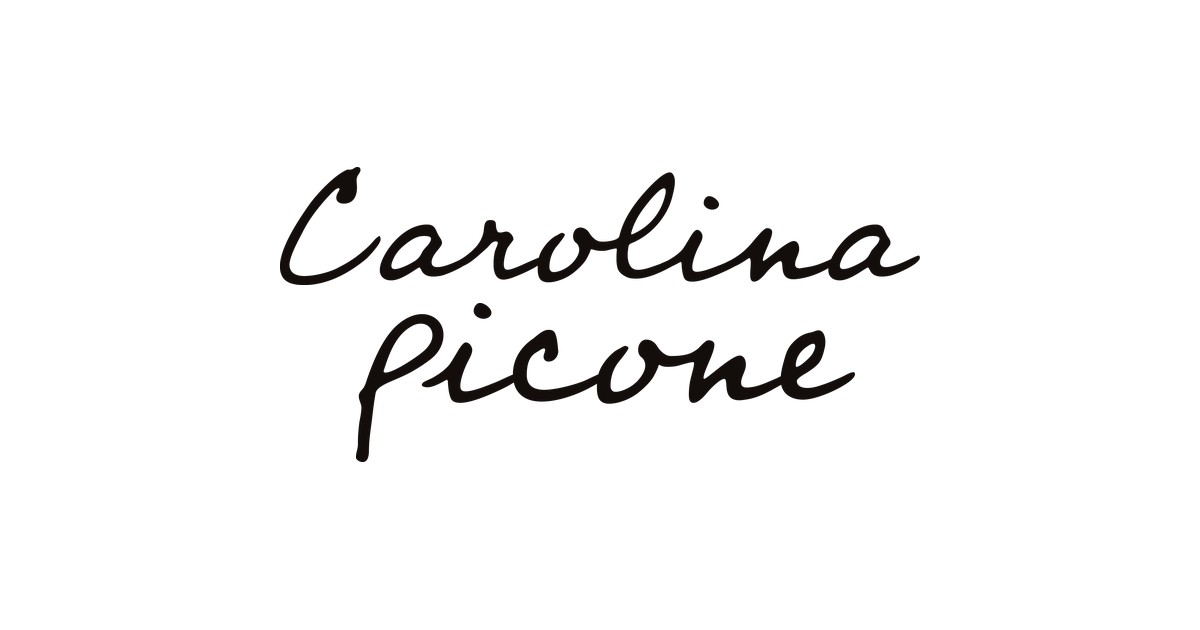
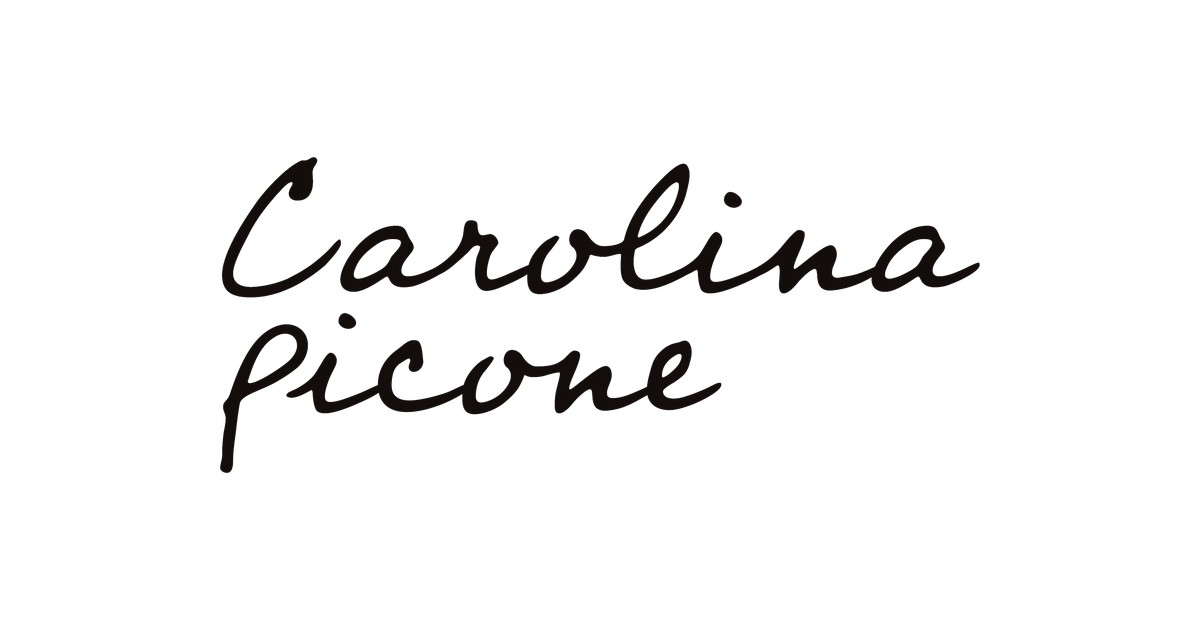
Vista previa del link: título 'Carolina Picone — Diseñadora de Indumentaria' y firma con las proporciones del home (Carolina y Picone del mismo tamaño)
Claude-Session: https://claude.ai/code/session_01VVY2Xm9Z2yGy11hWit3G9P

Changed region(s): [[0.185, 0.2413, 0.8325, 0.754]]

diff --git a/index.html b/index.html
@@ -4,20 +4,20 @@
 <meta charset="UTF-8">
 <meta name="viewport" content="width=device-width, initial-scale=1.0">
 <title>Carolina Picone — Portfolio</title>
-<meta name="description" content="Carolina Picone — Diseñadora de Indumentaria">
+<meta name="description" content="Portfolio de diseño de indumentaria">
 <!-- vista previa al compartir el link (LinkedIn, WhatsApp, Instagram, etc.) -->
 <meta property="og:type" content="website">
 <meta property="og:site_name" content="Carolina Picone">
-<meta property="og:title" content="Carolina Picone">
-<meta property="og:description" content="Diseñadora de Indumentaria">
+<meta property="og:title" content="Carolina Picone — Diseñadora de Indumentaria">
+<meta property="og:description" content="Portfolio de diseño de indumentaria">
 <meta property="og:url" content="https://carolinapicone.com/">
 <meta property="og:image" content="https://carolinapicone.com/assets/og-preview.jpg">
 <meta property="og:image:width" content="1200">
 <meta property="og:image:height" content="630">
 <meta property="og:image:alt" content="Carolina Picone">
 <meta name="twitter:card" content="summary_large_image">
-<meta name="twitter:title" content="Carolina Picone">
-<meta name="twitter:description" content="Diseñadora de Indumentaria">
+<meta name="twitter:title" content="Carolina Picone — Diseñadora de Indumentaria">
+<meta name="twitter:description" content="Portfolio de diseño de indumentaria">
 <meta name="twitter:image" content="https://carolinapicone.com/assets/og-preview.jpg">
 <link rel="preconnect" href="https://fonts.googleapis.com">
 <link rel="preconnect" href="https://fonts.gstatic.com" crossorigin>

diff --git a/CLAUDE.md b/CLAUDE.md
@@ -344,7 +344,7 @@ Todo vive en un **único `index.html`**, sin páginas separadas ni rutas — la 
 - **Sin teléfono ni WhatsApp visibles** en Contacto — decisión de privacidad explícita de Carolina.
 - **Dominio:** `carolinapicone.com`, **comprado por Carolina en Namecheap**. La web se publica con **GitHub Pages** desde `main` (carpeta raíz). El archivo `CNAME` de la raíz del repositorio (con `carolinapicone.com` adentro) le dice a GitHub cuál es el dominio: **no borrarlo**. En Namecheap (Advanced DNS) van 4 registros A `@` → 185.199.108.153 / 109.153 / 110.153 / 111.153 y un CNAME `www` → `carolinapicone.github.io`. Después, en GitHub → Settings → Pages, tildar **Enforce HTTPS**.
 - **Redes confirmadas:** Instagram (de diseño) `@carolinapicone_` → `instagram.com/carolinapicone_` (antes `@caropicone`, que ya no se usa en la web); LinkedIn → `linkedin.com/in/carolina-picone-680a20331`.
-- **Vista previa al compartir el link** (LinkedIn, WhatsApp, etc.): etiquetas `og:*` / `twitter:*` en el `<head>` del `index.html`. Título **"Carolina Picone"**, descripción "Diseñadora de Indumentaria" e imagen `assets/og-preview.jpg` (1200×630, fondo blanco con la firma de dos líneas; las imágenes tienen que ir con la dirección completa `https://carolinapicone.com/assets/...`). Antes no había ninguna y LinkedIn elegía sola una foto de un figurín de Dualidad. LinkedIn guarda la vista previa un tiempo: para refrescarla, usar linkedin.com/post-inspector. **No borrar `og-preview.jpg`.**
+- **Vista previa al compartir el link** (LinkedIn, WhatsApp, etc.): etiquetas `og:*` / `twitter:*` en el `<head>` del `index.html`. Título **"Carolina Picone — Diseñadora de Indumentaria"**, descripción "Portfolio de diseño de indumentaria" e imagen `assets/og-preview.jpg` (1200×630, fondo blanco con la firma de dos líneas **con las mismas proporciones que en el home**: "Carolina" al 78% del alto de referencia y "Picone" al 87.6%, 4px entre las dos, para que las letras queden del mismo tamaño; las imágenes tienen que ir con la dirección completa `https://carolinapicone.com/assets/...`). Antes no había ninguna y LinkedIn elegía sola una foto de un figurín de Dualidad. LinkedIn guarda la vista previa un tiempo: para refrescarla, usar linkedin.com/post-inspector. **No borrar `og-preview.jpg`.**
 - **Mail de contacto:** `carolinapicone.t@gmail.com`.
 - Los 5 bloques de "Trabajos" en el home son placeholders (patrón diagonal gris/negro) — *(sin definir)* faltan las imágenes reales de cada proyecto.
 - **Miniatura de Un Mundo para Exprimir en el home:** `exprimir-thumb.jpg`, recorte de `exprimir-final-3.jpg` (la nena sentada en la escalera), centrada en ella, en la proporción del recuadro (1.25): corta las piernas un poco antes de la botamanga naranja del jardinero (que no se ve), con un zoom apenas mayor (8%) para que la cabeza quede a la misma distancia del borde de arriba (~6%). (Se probó cortar debajo de la cintura: demasiado.) **La escalera está retocada para que se vea nueva**: sin rayones, gastado ni manchas (se suavizó solo a lo largo de las tablas, así quedan la veta y los cantos; la nena y los bordes verticales —pared, columna, costados— no se tocan).
